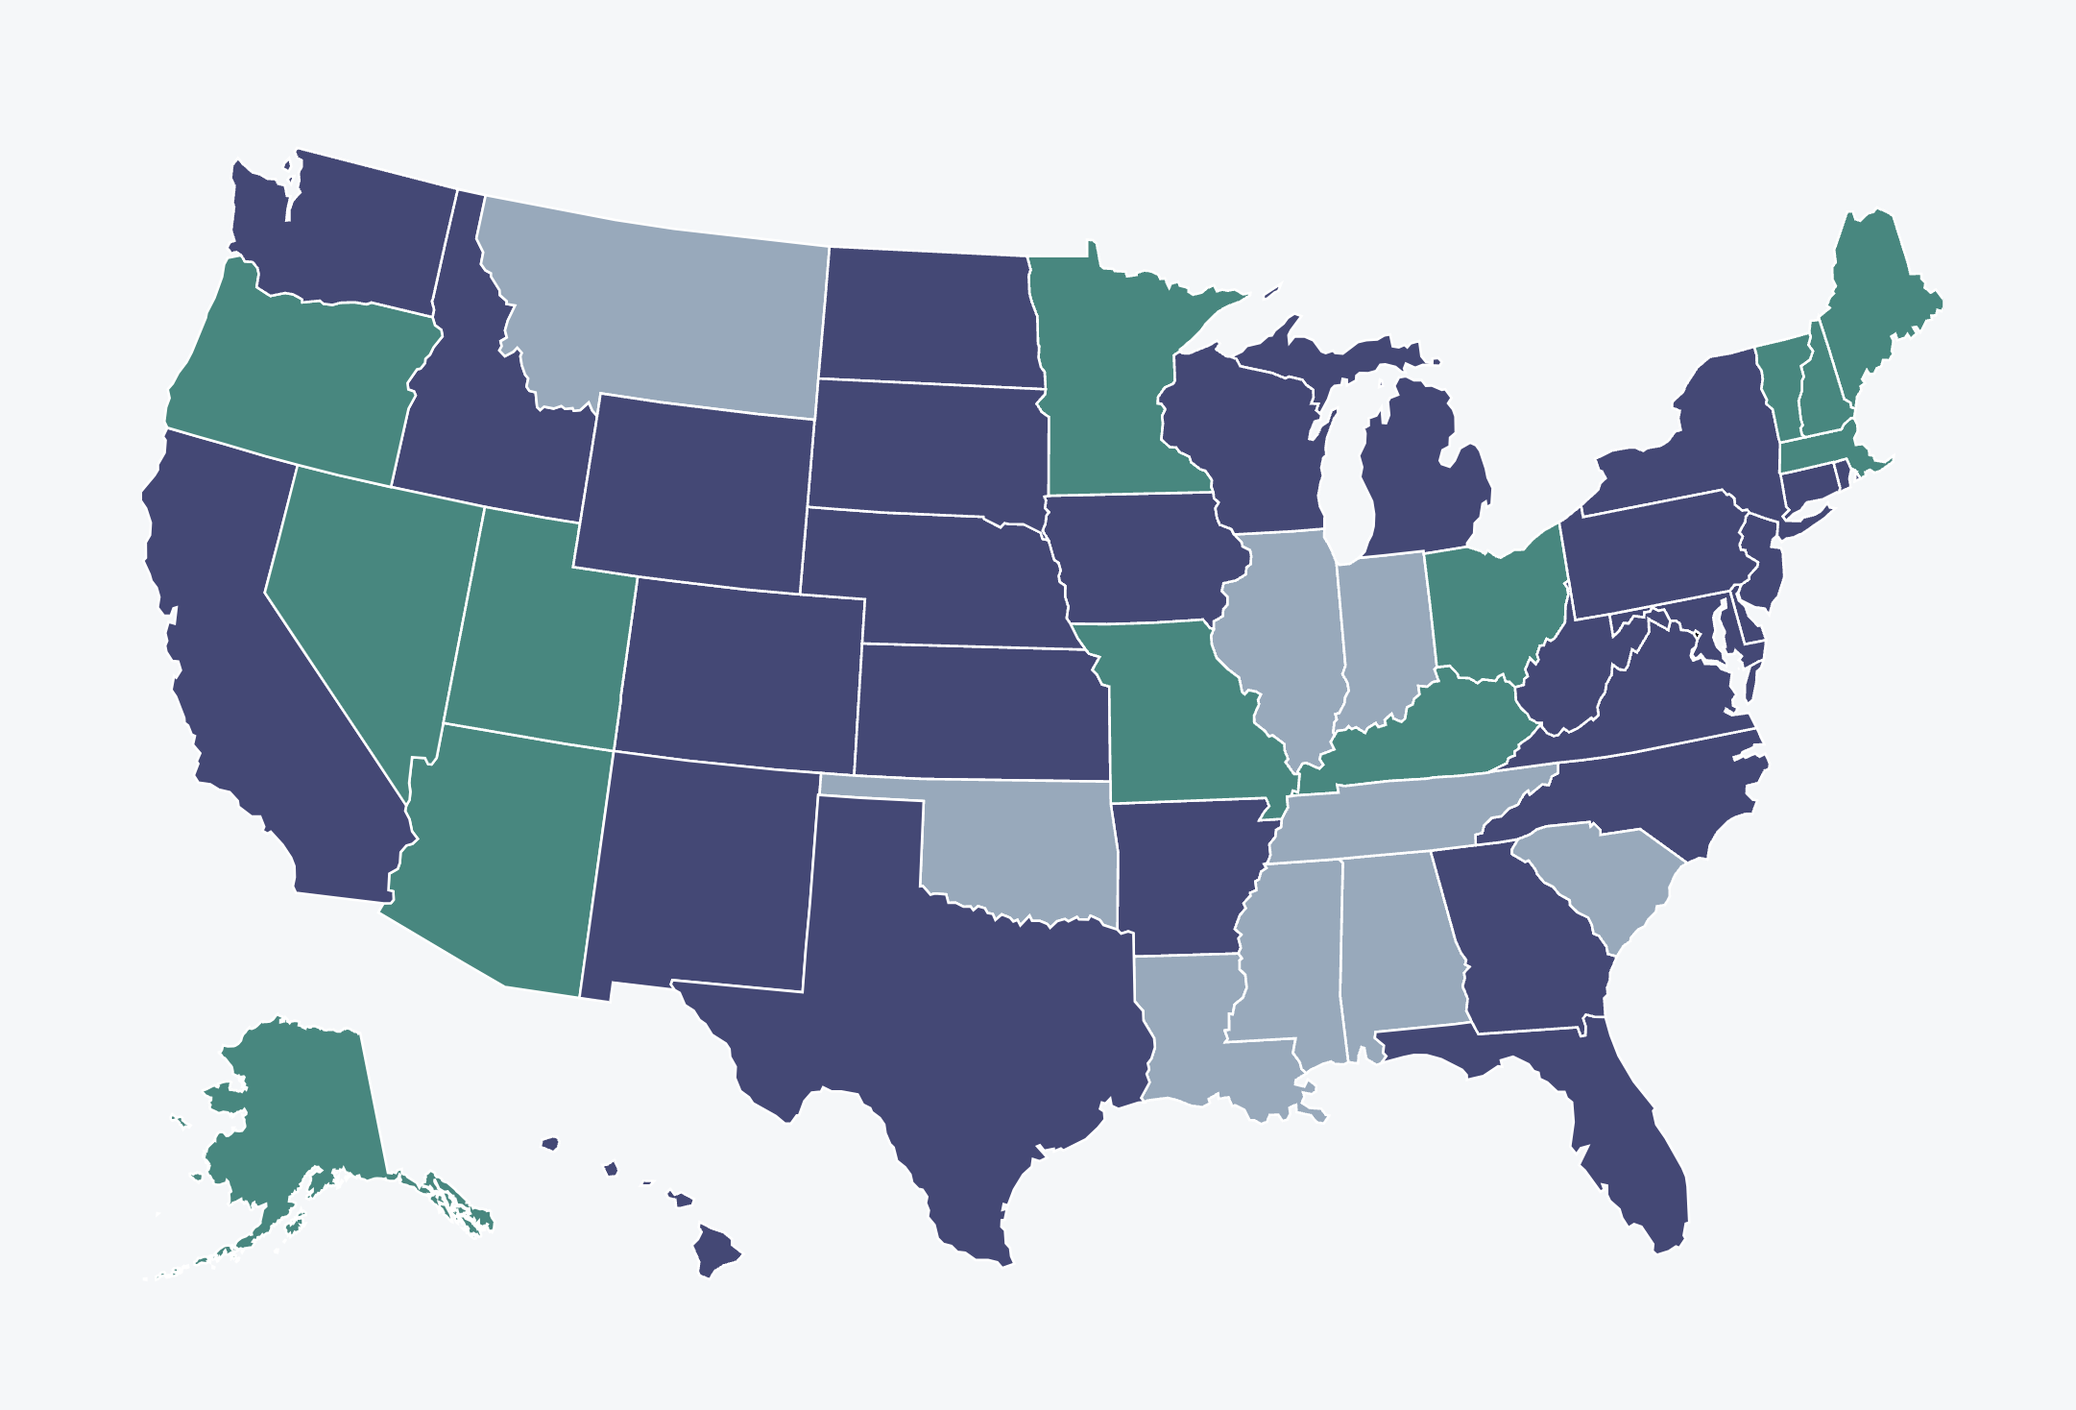
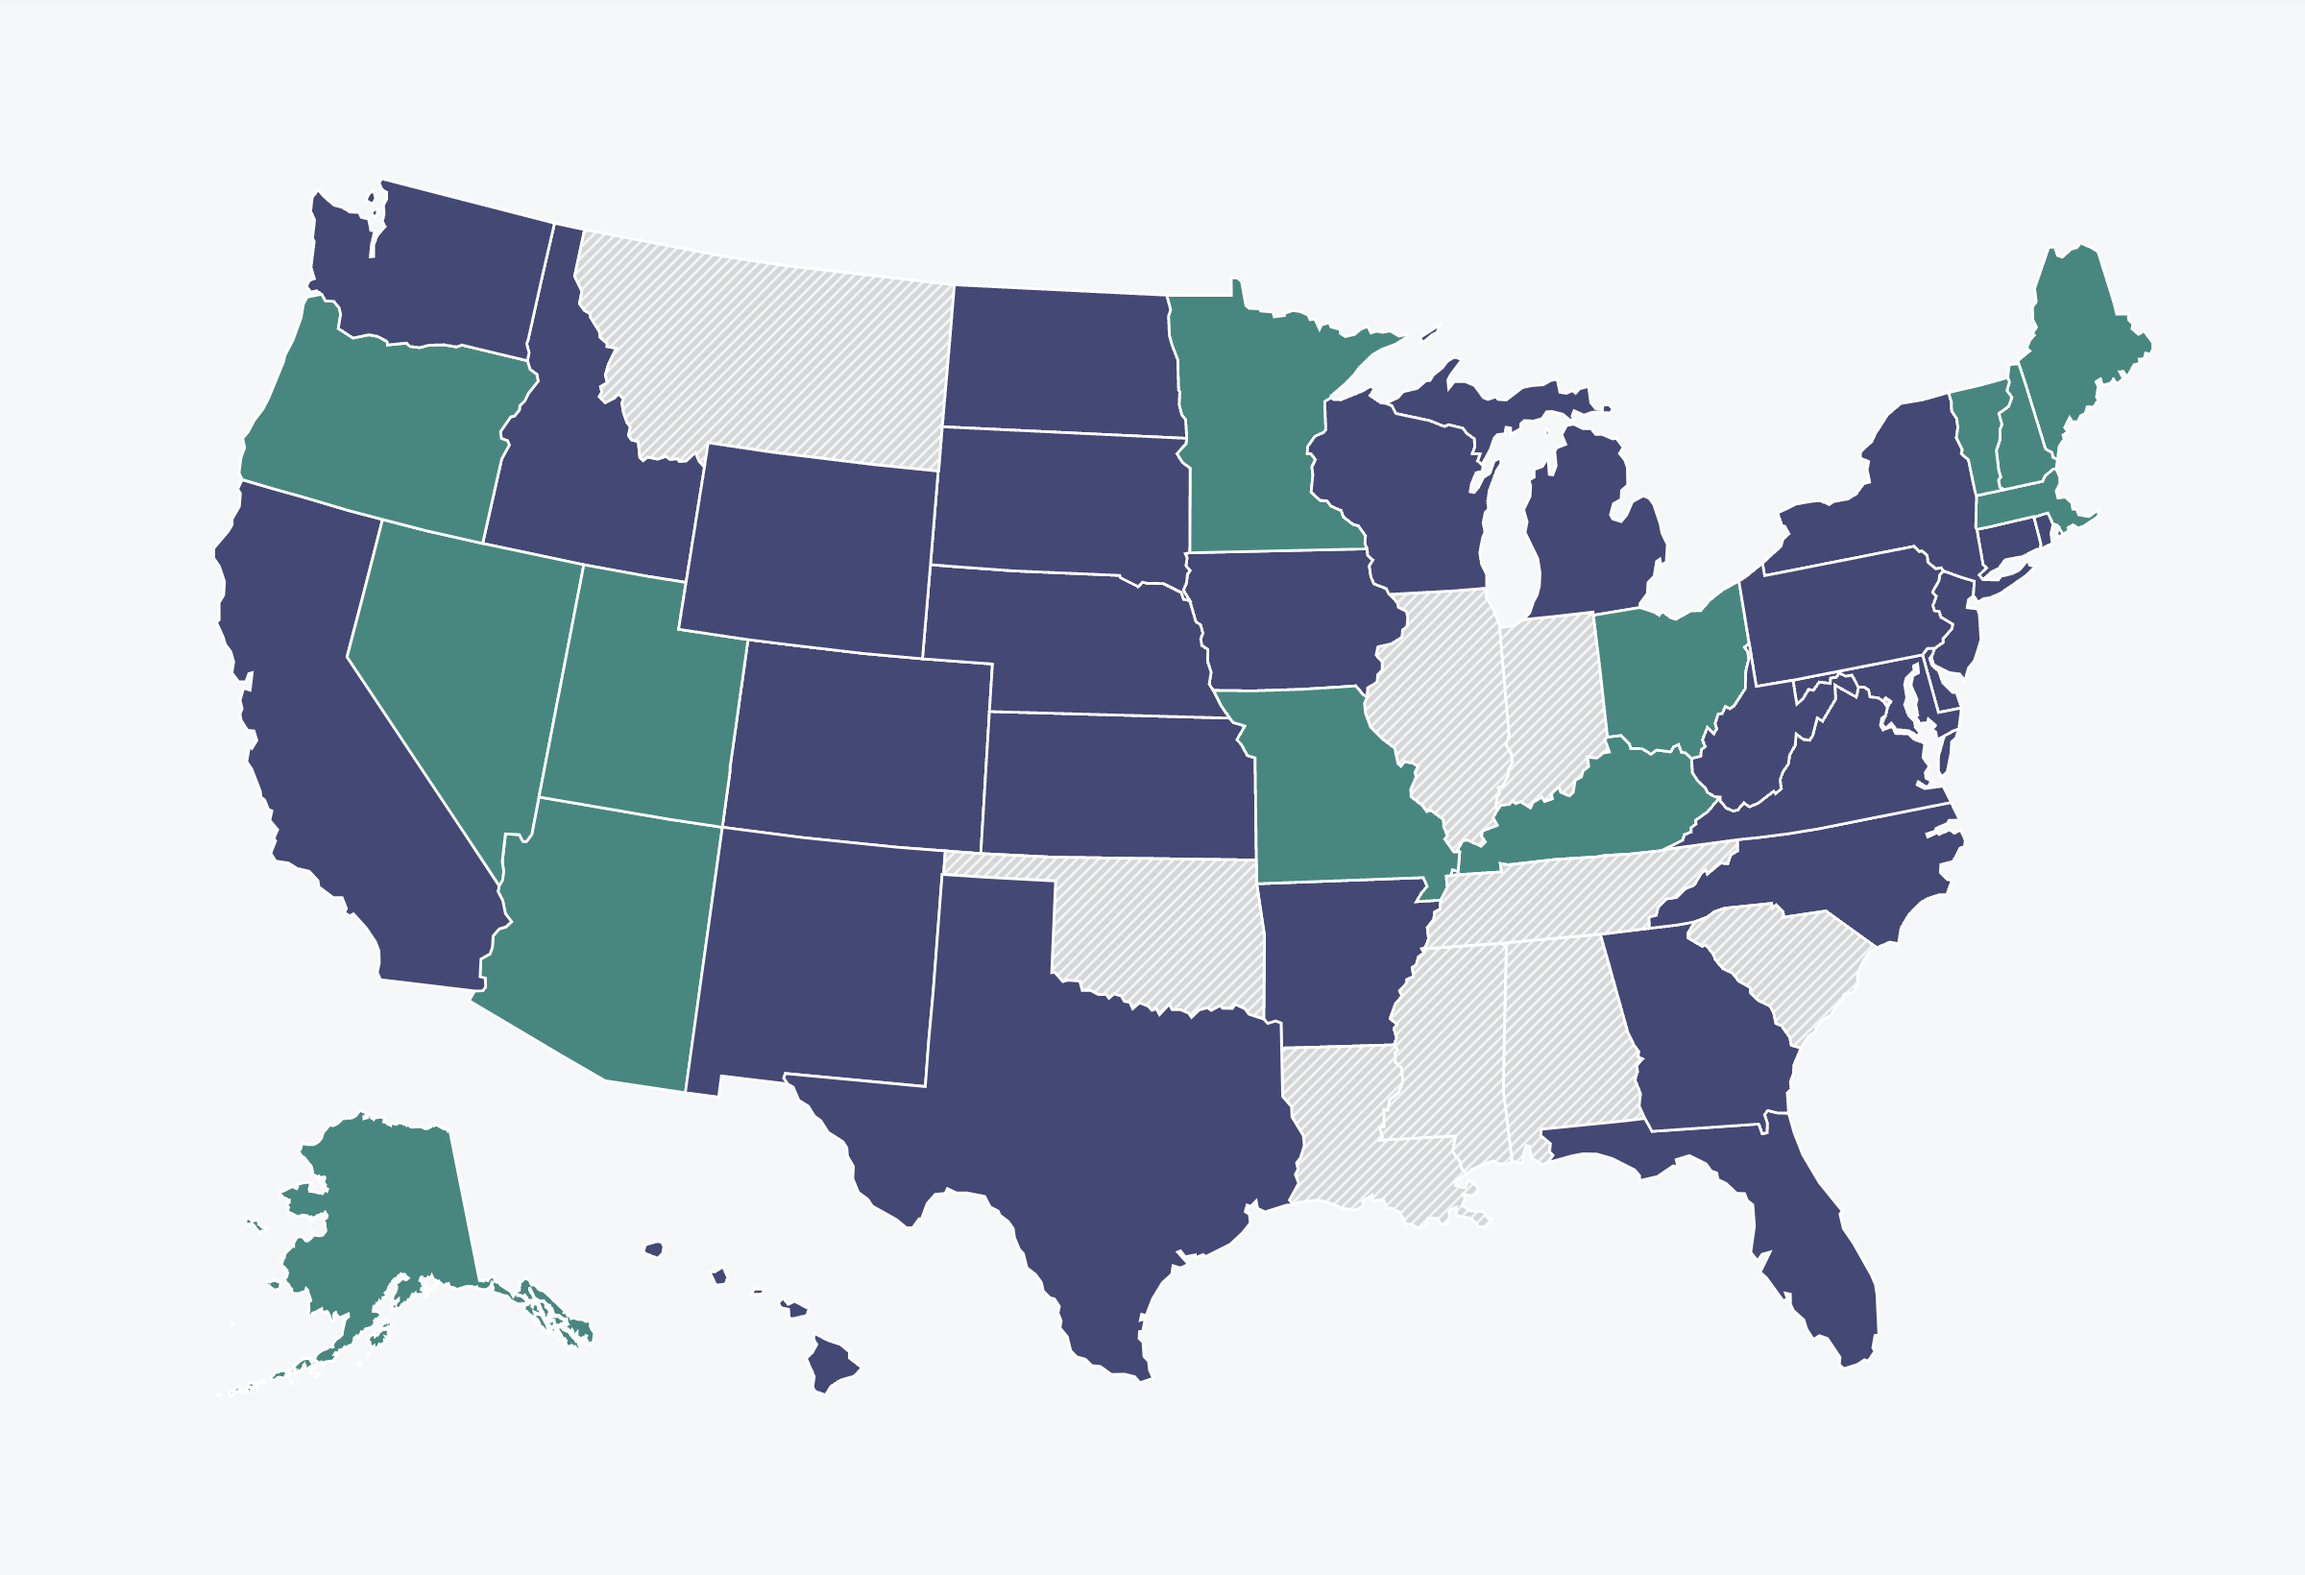
feat (blog): use non-zero pattern in map - update data download link

diff --git a/themes/evictionlab/assets/charts/charts.css b/themes/evictionlab/assets/charts/charts.css
@@ -564,6 +564,9 @@ body .visual .visual__title, body .visual .visual__title > * {
 .legend-item--4 .legend-item__color {
   background: #f781bf
 }
+.legend-item--non-zero .legend-item__color {
+  background: repeating-linear-gradient(-45deg, #d6d6d6, #d6d6d6 2px, white 2px, white 4px);
+}
 
 .legend-item__label {
   line-height: 1;

diff --git a/content/updates/blog/we-made-a-simple-eviction-data-request-to-all-50-states-this-is-what-we-learned/index.md b/content/updates/blog/we-made-a-simple-eviction-data-request-to-all-50-states-this-is-what-we-learned/index.md
@@ -62,6 +62,7 @@ We set out to ask each state the same question about eviction records: <strong>h
   title="Availability of 2018-2021 State-Level Eviction Data"
   idColumn="fips"
   valueColumn="score1"
+  zeroPattern="true"
   minVal="0"
   maxVal="2"
   valueTemplate=""
@@ -78,16 +79,14 @@ We set out to ask each state the same question about eviction records: <strong>h
   <div class="legend-item__color"></div>
   <div class="legend-item__label">Data found after request</div>
   </div>
-  <div class="legend-item legend-item--3">
+  <div class="legend-item legend-item--non-zero">
   <div class="legend-item__color"></div>
   <div class="legend-item__label">Data not available<sup>1,2</sup></div>
   </div>
 </div>
 
 
-We found data for 41 states either via requests or through the state’s judicial branch website. Nearly a third of the states had this information available on dashboards or annual reports, though in some it was easier to track down than in others. This was the case in large states like Ohio, but also in less populous states like New Hampshire. 
-
-<a class="btn buttonlink" href="./statewide-eviction-data.csv" target="_blank" rel="noreferrer noopener" style="width: unset; max-width: 324px">Download the Data</a>
+We found data for 41 states either via requests or through the state’s judicial branch website (available for download <a href="./statewide-eviction-data.csv" target="_blank" rel="noreferrer noopener">here</a>). Nearly a third of the states had this information available on dashboards or annual reports, though in some it was easier to track down than in others. This was the case in large states like Ohio, but also in less populous states like New Hampshire. 
 
 Jeanette Bilodeau is a business analyst for the circuit courts in New Hampshire who's been in charge of creating eviction filing reports for the state since late 2018. 
 
